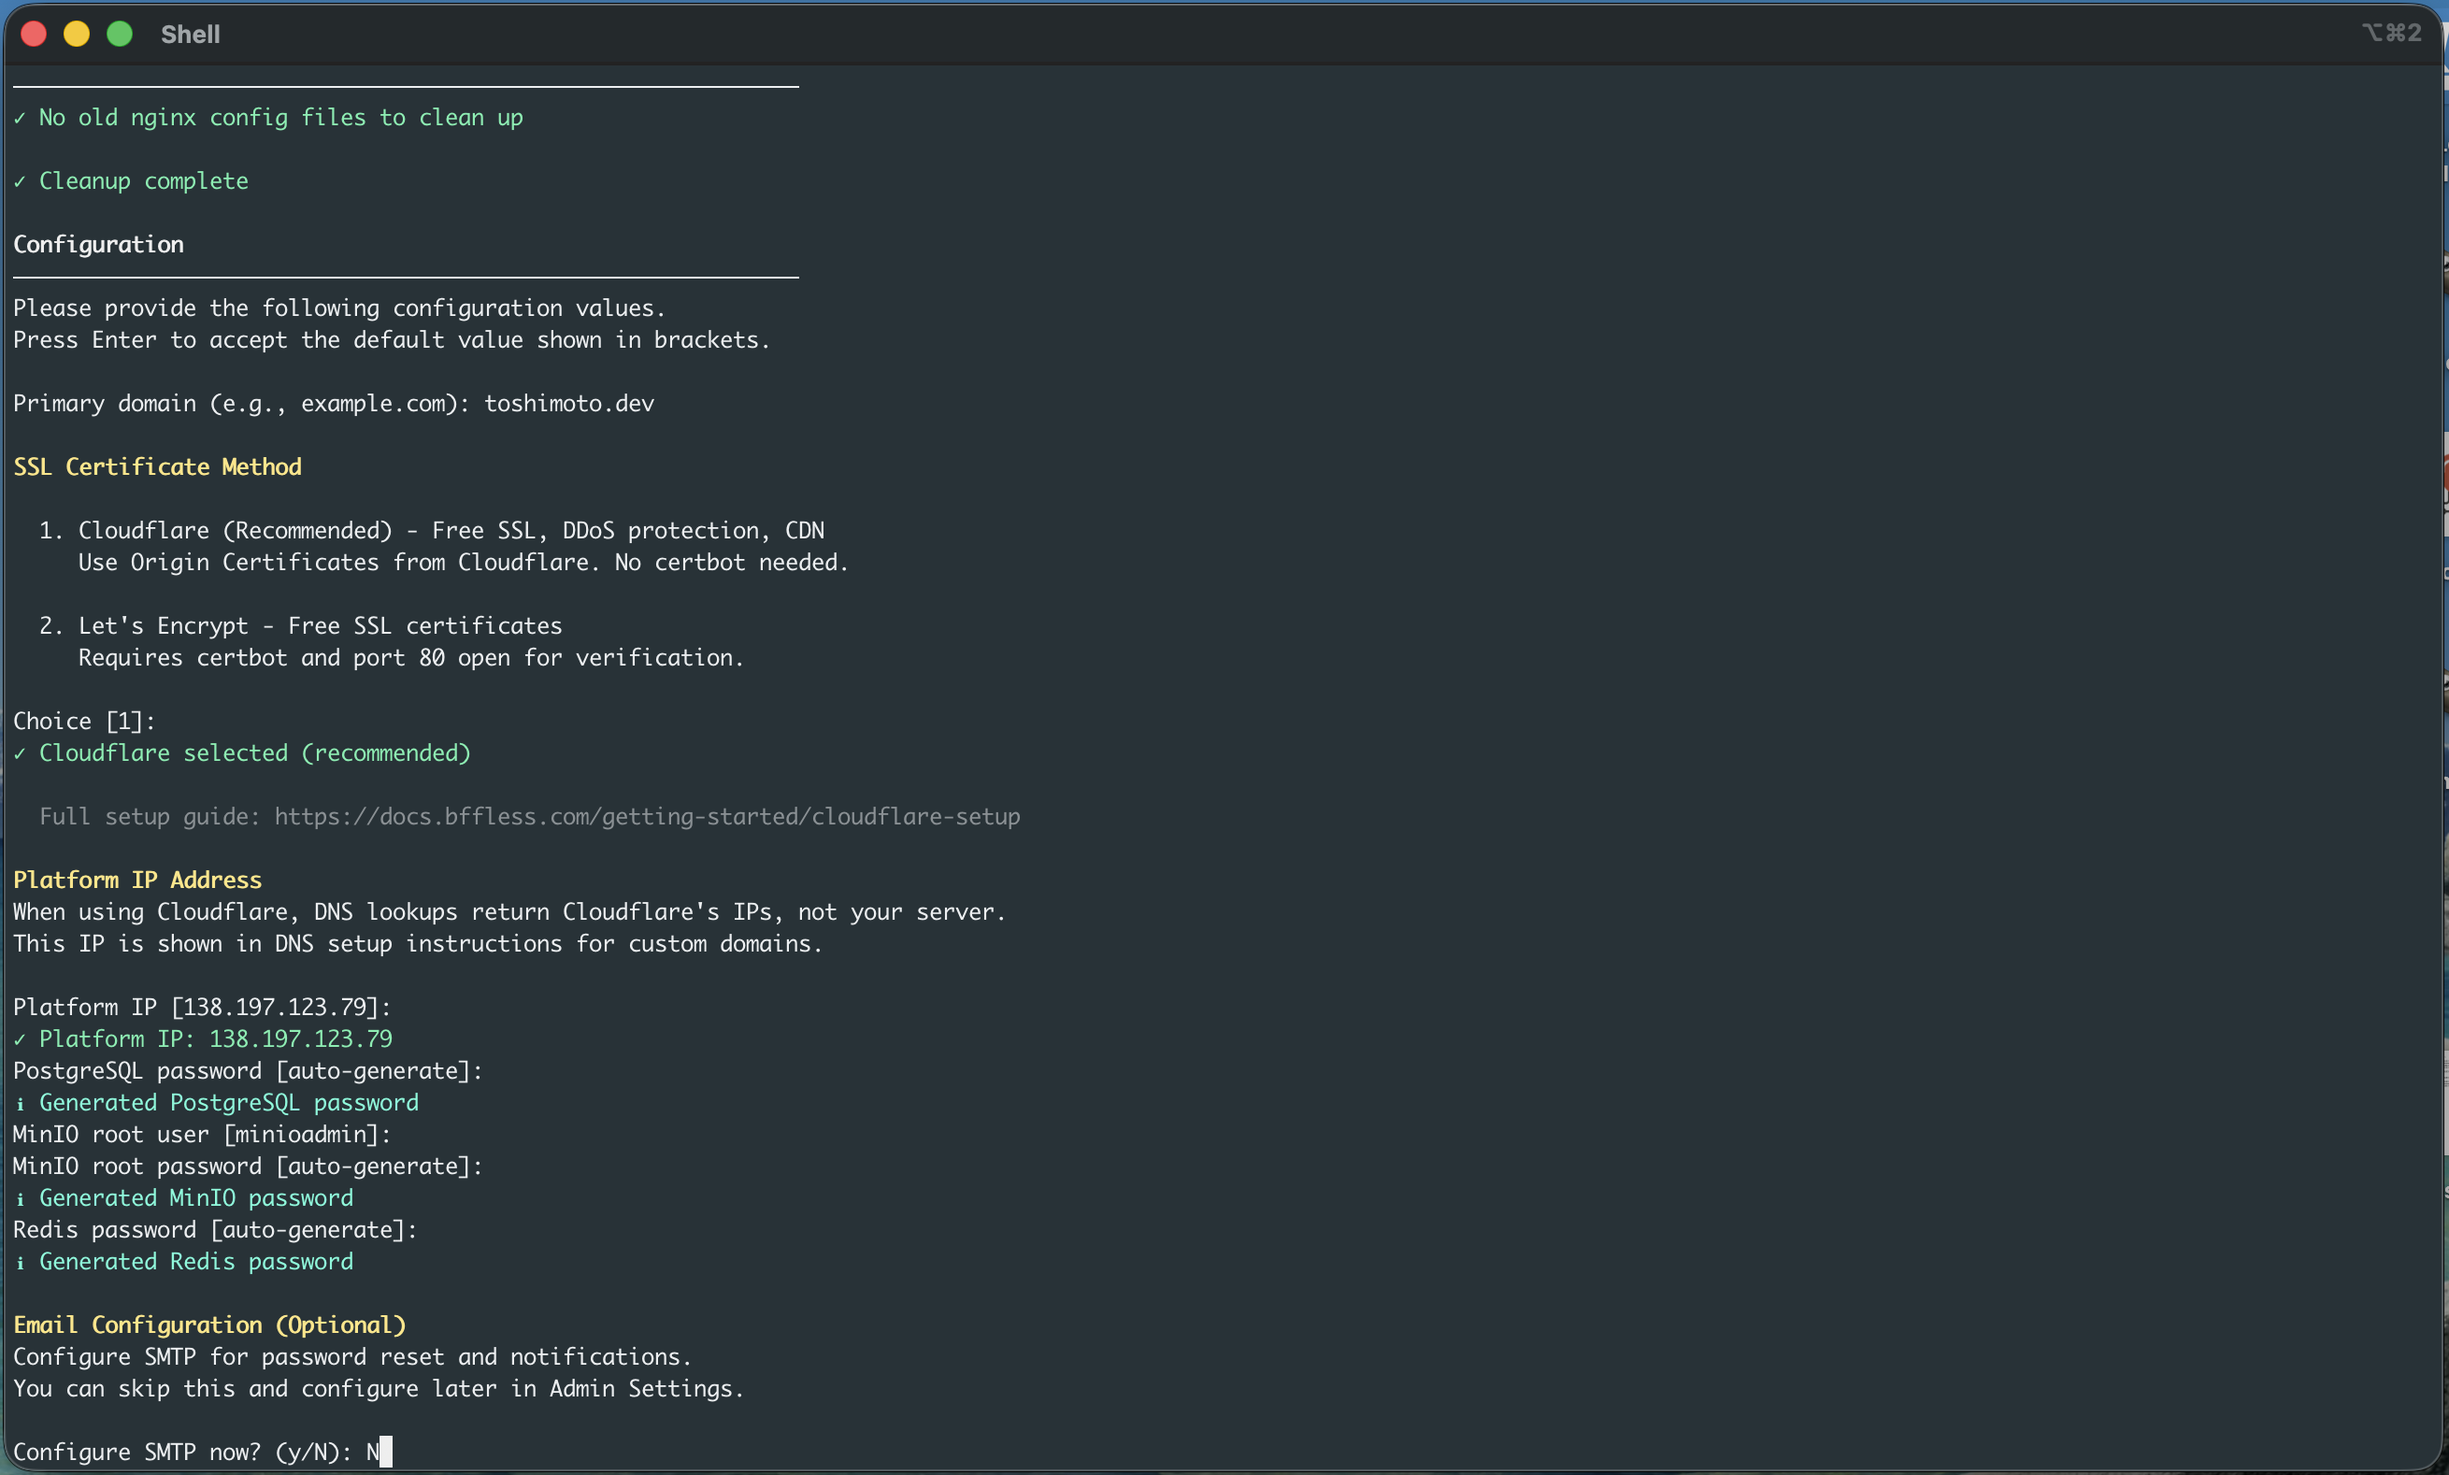
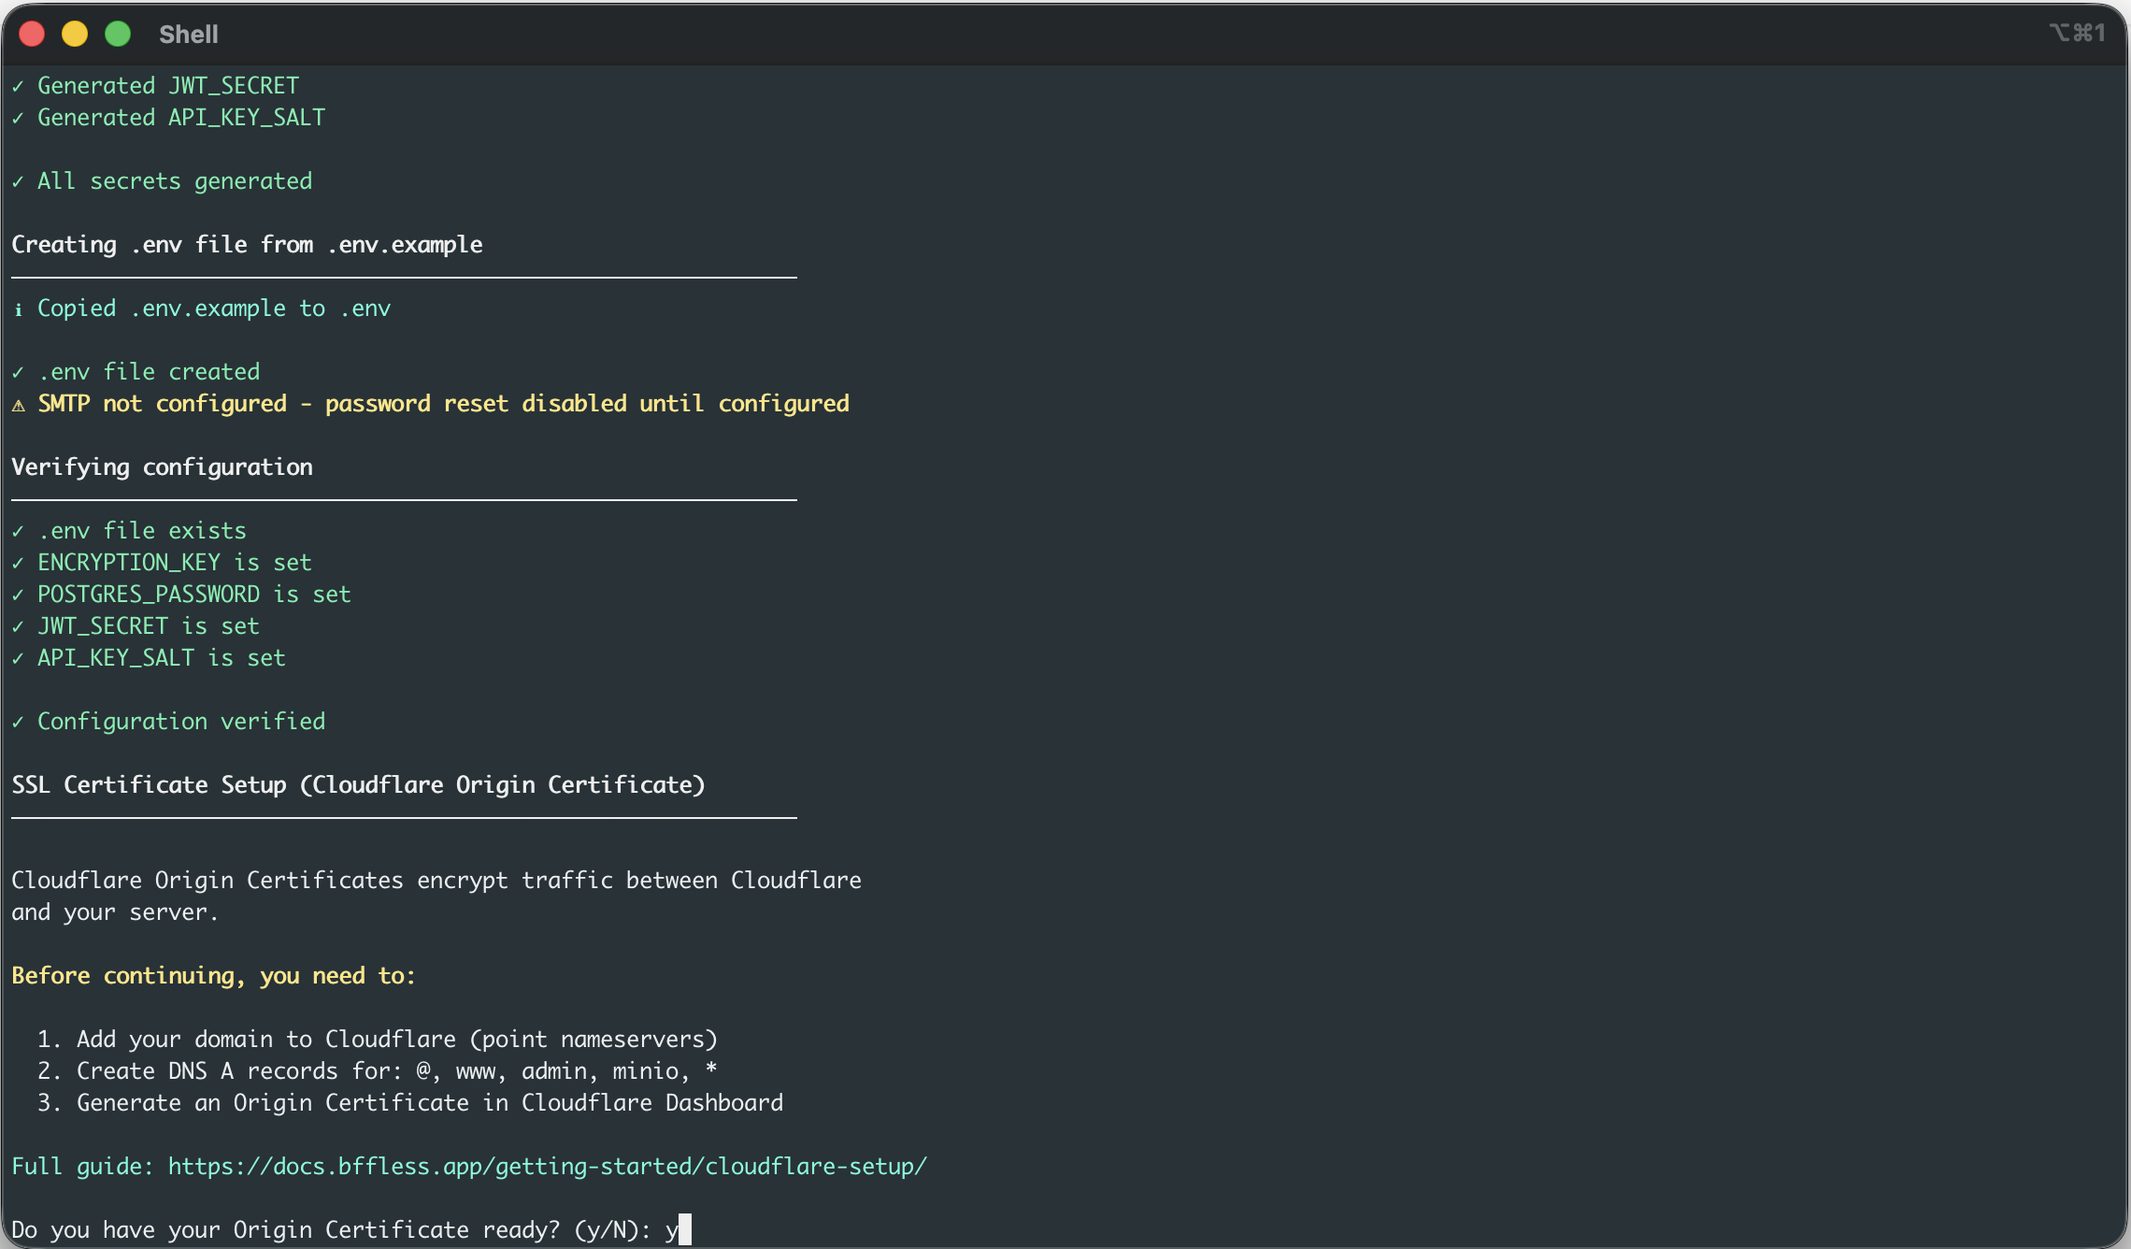
chore: docs

Changed region(s): [[0.0, 0.0, 1.0, 1.0]]

diff --git a/docs/getting-started/cloudflare-setup.md b/docs/getting-started/cloudflare-setup.md
@@ -69,15 +69,75 @@ Any cloud provider works. Here are some budget-friendly options:
 
 1. Create a server with **Ubuntu 22.04+** (or your preferred Linux distro)
 2. Ensure **port 443** is open in your firewall
-3. SSH into your server and note your public IP address:
+
+## Step 2: Run the Installer
+
+Now SSH into your server and start the BFFless installer.
+
+### 2.1 Connect to Your Server
+
+From your local machine, SSH into your server and note your public IP address:
 
 ```bash
+ssh root@YOUR_SERVER_IP
 curl -4 ifconfig.me && echo
 ```
 
-You'll need this IP for the DNS configuration in the next steps.
+<img src="/img/cloudflare-6.1.png" alt="Terminal showing SSH connection to Ubuntu server with system information" className="screenshot" />
 
-## Step 2: Add Your Domain to Cloudflare
+You'll need this IP address for DNS configuration in the next steps.
+
+### 2.2 Run the Install Script
+
+Run the BFFless installer:
+
+```bash
+INSTALL_DIR=/opt/bffless sh -c "$(curl -fsSL https://raw.githubusercontent.com/bffless/ce/main/install.sh)"
+```
+
+The installer will automatically install Docker if needed and set up the BFFless platform.
+
+<!-- TODO: Add screenshot of installer starting -->
+
+### 2.3 Enter Your Domain
+
+When prompted, enter your domain name (e.g., `example.com`):
+
+<img src="/img/cloudflare-6.3.png" alt="BFFless setup script showing prerequisites check and domain prompt" className="screenshot" />
+
+### 2.4 Select Cloudflare
+
+When asked about SSL certificate method, select **1** for Cloudflare (or just press Enter for the default):
+
+<img src="/img/cloudflare-6.4.png" alt="SSL Certificate Method selection showing Cloudflare as option 1 and Let's Encrypt as option 2" className="screenshot" />
+
+### 2.5 Confirm Your Server IP
+
+The installer will detect your server's public IP address. Press Enter to confirm or enter a different IP.
+
+### 2.6 Accept Default Passwords
+
+Press Enter to accept the auto-generated defaults for:
+- **PostgreSQL password** - auto-generated secure password
+- **MinIO root user** - defaults to `minioadmin`
+- **MinIO root password** - auto-generated secure password
+- **Redis password** - auto-generated secure password
+
+For **Email Configuration**, enter `N` to skip. You can configure email later in Admin Settings.
+
+:::tip Email Provider Recommendation
+Most cloud providers block SMTP ports (25, 465, 587) for spam prevention, so direct SMTP usually won't work. Use a transactional email service like [Resend](https://resend.com), [SendGrid](https://sendgrid.com), or [Postmark](https://postmarkapp.com) instead - they use API-based delivery that works on any host.
+:::
+
+<img src="/img/cloudflare-defaults.png" alt="Installer showing auto-generated passwords for PostgreSQL, MinIO, and Redis, with SMTP configuration prompt" className="screenshot" />
+
+### 2.7 Origin Certificate Prompt
+
+When prompted "Do you have your Origin Certificate ready?", **enter `y`**.
+
+The installer will wait for you to paste your certificate. **Leave the terminal open** and continue to the next steps to configure Cloudflare and generate your Origin Certificate. You'll return to this terminal after Step 5 to paste the certificates.
+
+## Step 3: Add Your Domain to Cloudflare
 
 If your domain isn't already on Cloudflare:
 
@@ -100,25 +160,23 @@ dig NS yourdomain.com +short
 You should see Cloudflare nameservers in the output.
 :::
 
-## Step 3: Create DNS Records
+## Step 4: Create DNS Records
 
 In the Cloudflare Dashboard, go to **DNS > Records** and add these A records:
 
 <img src="/img/cloudflare-dns.png" alt="Cloudflare DNS Records showing A records for admin, wildcard, root domain, minio, and www all proxied" className="screenshot" />
 
-| Type | Name    | Content          | Proxy Status           |
-| ---- | ------- | ---------------- | ---------------------- |
-| A    | `@`     | `YOUR_SERVER_IP` | Proxied (orange cloud) |
-| A    | `www`   | `YOUR_SERVER_IP` | Proxied (orange cloud) |
-| A    | `admin` | `YOUR_SERVER_IP` | Proxied (orange cloud) |
-| A    | `minio` | `YOUR_SERVER_IP` | Proxied (orange cloud) |
-| A    | `*`     | `YOUR_SERVER_IP` | Proxied (orange cloud) |
+| Type | Name | Content          | Proxy Status           |
+| ---- | ---- | ---------------- | ---------------------- |
+| A    | `@`  | `YOUR_SERVER_IP` | Proxied (orange cloud) |
+| A    | `*`  | `YOUR_SERVER_IP` | Proxied (orange cloud) |
 
-:::info Wildcard Record
-The `*` (wildcard) record is needed for subdomain-based site deployments (e.g., `mysite.yourdomain.com`).
+:::info Why Two Records?
+- `@` covers your root domain (`yourdomain.com`)
+- `*` is a wildcard that covers all subdomains (`admin.yourdomain.com`, `www.yourdomain.com`, `mysite.yourdomain.com`, etc.)
 :::
 
-## Step 4: Generate an Origin Certificate
+## Step 5: Generate an Origin Certificate
 
 Origin Certificates encrypt traffic between Cloudflare and your server.
 
@@ -139,10 +197,19 @@ You'll see two text blocks:
 - **Private Key** - The key (starts with `-----BEGIN PRIVATE KEY-----`)
 
 :::warning Save Both Values
-**Copy both the certificate and private key now.** The private key is only shown once and cannot be retrieved later. You'll paste these during the installer setup.
+**Copy both the certificate and private key now.** The private key is only shown once and cannot be retrieved later.
 :::
 
-## Step 5: Set SSL Mode to Full (Strict)
+### Return to the Terminal
+
+Now go back to your terminal where the installer is waiting for you to paste the certificate:
+
+1. **Paste your Origin Certificate** (the full text including `-----BEGIN CERTIFICATE-----` and `-----END CERTIFICATE-----`), then press Enter on a blank line
+2. **Paste your Private Key** (the full text including `-----BEGIN PRIVATE KEY-----` and `-----END PRIVATE KEY-----`), then press Enter on a blank line
+
+The installer will save the certificates and continue to the next step.
+
+## Step 6: Set SSL Mode to Full (Strict)
 
 This ensures end-to-end encryption:
 
@@ -155,83 +222,13 @@ This ensures end-to-end encryption:
 **Flexible** mode means traffic between Cloudflare and your server is unencrypted. Always use **Full (strict)** with Origin Certificates.
 :::
 
-## Step 6: Run the Installer
+## Step 7: Setup Complete
 
-Now you're ready to run the BFFless installer on your server.
-
-### 6.1 Connect to Your Server
-
-From your local machine, SSH into your server:
-
-```bash
-ssh root@YOUR_SERVER_IP
-```
-
-<img src="/img/cloudflare-6.1.png" alt="Terminal showing SSH connection to Ubuntu server with system information" className="screenshot" />
-
-### 6.2 Run the Install Script
-
-Run the BFFless installer:
-
-```bash
-INSTALL_DIR=/opt/bffless sh -c "$(curl -fsSL https://raw.githubusercontent.com/bffless/ce/main/install.sh)"
-```
-
-The installer will automatically install Docker if needed and set up the BFFless platform.
-
-<!-- TODO: Add screenshot of installer starting -->
-
-### 6.3 Enter Your Domain
-
-When prompted, enter your domain name (e.g., `example.com`):
-
-<img src="/img/cloudflare-6.3.png" alt="BFFless setup script showing prerequisites check and domain prompt" className="screenshot" />
-
-### 6.4 Select Cloudflare
-
-When asked about SSL certificate method, select **1** for Cloudflare (or just press Enter for the default):
-
-<img src="/img/cloudflare-6.4.png" alt="SSL Certificate Method selection showing Cloudflare as option 1 and Let's Encrypt as option 2" className="screenshot" />
-
-### 6.5 Confirm Your Server IP
-
-The installer will detect your server's public IP address. Press Enter to confirm or enter a different IP:
-
-### 6.6 Accept Default Passwords
-
-Press Enter to accept the auto-generated defaults for:
-- **PostgreSQL password** - auto-generated secure password
-- **MinIO root user** - defaults to `minioadmin`
-- **MinIO root password** - auto-generated secure password
-- **Redis password** - auto-generated secure password
-
-For **Email Configuration**, enter `N` to skip. You can configure email later in Admin Settings.
-
-:::tip Email Provider Recommendation
-Most cloud providers block SMTP ports (25, 465, 587) for spam prevention, so direct SMTP usually won't work. Use a transactional email service like [Resend](https://resend.com), [SendGrid](https://sendgrid.com), or [Postmark](https://postmarkapp.com) instead - they use API-based delivery that works on any host.
-:::
-
-<img src="/img/cloudflare-defaults.png" alt="Installer showing auto-generated passwords for PostgreSQL, MinIO, and Redis, with SMTP configuration prompt" className="screenshot" />
-
-### 6.7 Paste Your Origin Certificate
-
-In Cloudflare, click the **Origin Certificate** text box to copy it to your clipboard:
-
-<img src="/img/cloudflare-6.7.png" alt="Cloudflare Origin Certificate page showing certificate text box with 'Copied to clipboard' message" className="screenshot" />
-
-When prompted, enter `y` to confirm you have your Origin Certificate ready. Then paste it into the terminal (the full text including the `BEGIN` and `END` lines), and press Enter on a blank line:
-
-<img src="/img/cloudflare-6.7-b.png" alt="Terminal showing certificate paste prompt with BEGIN CERTIFICATE being pasted" className="screenshot" />
-
-### 6.8 Paste Your Private Key
-
-Next, paste your **Private Key** (the full text including the `BEGIN` and `END` lines), then press Enter on a blank line.
-
-The installer will save the certificates and show the "Setup Complete" screen:
+After pasting the certificates, the installer will show the "Setup Complete" screen:
 
 <img src="/img/cloudflare-setup-complete.png" alt="Setup Complete screen showing next steps including DNS configuration and start command" className="screenshot" />
 
-## Step 7: Start and Complete Setup
+## Step 8: Start and Complete Setup
 
 ```bash
 cd /opt/bffless

diff --git a/docs/index.md b/docs/index.md
@@ -15,13 +15,9 @@ BFFless is a self-hosted platform for hosting static assets and build artifacts 
 
 ## Quick Start
 
-Deploy in under 5 minutes:
+Get BFFless running in under 5 minutes with our step-by-step guide.
 
-```bash
-sh -c "$(curl -fsSL https://raw.githubusercontent.com/bffless/ce/main/install.sh)"
-```
-
-Or follow the [manual setup guide](/getting-started/manual-setup) for full control.
+<a href="/getting-started/quickstart" class="button button--primary button--lg">Get Started →</a>
 
 ## Key Features
 
